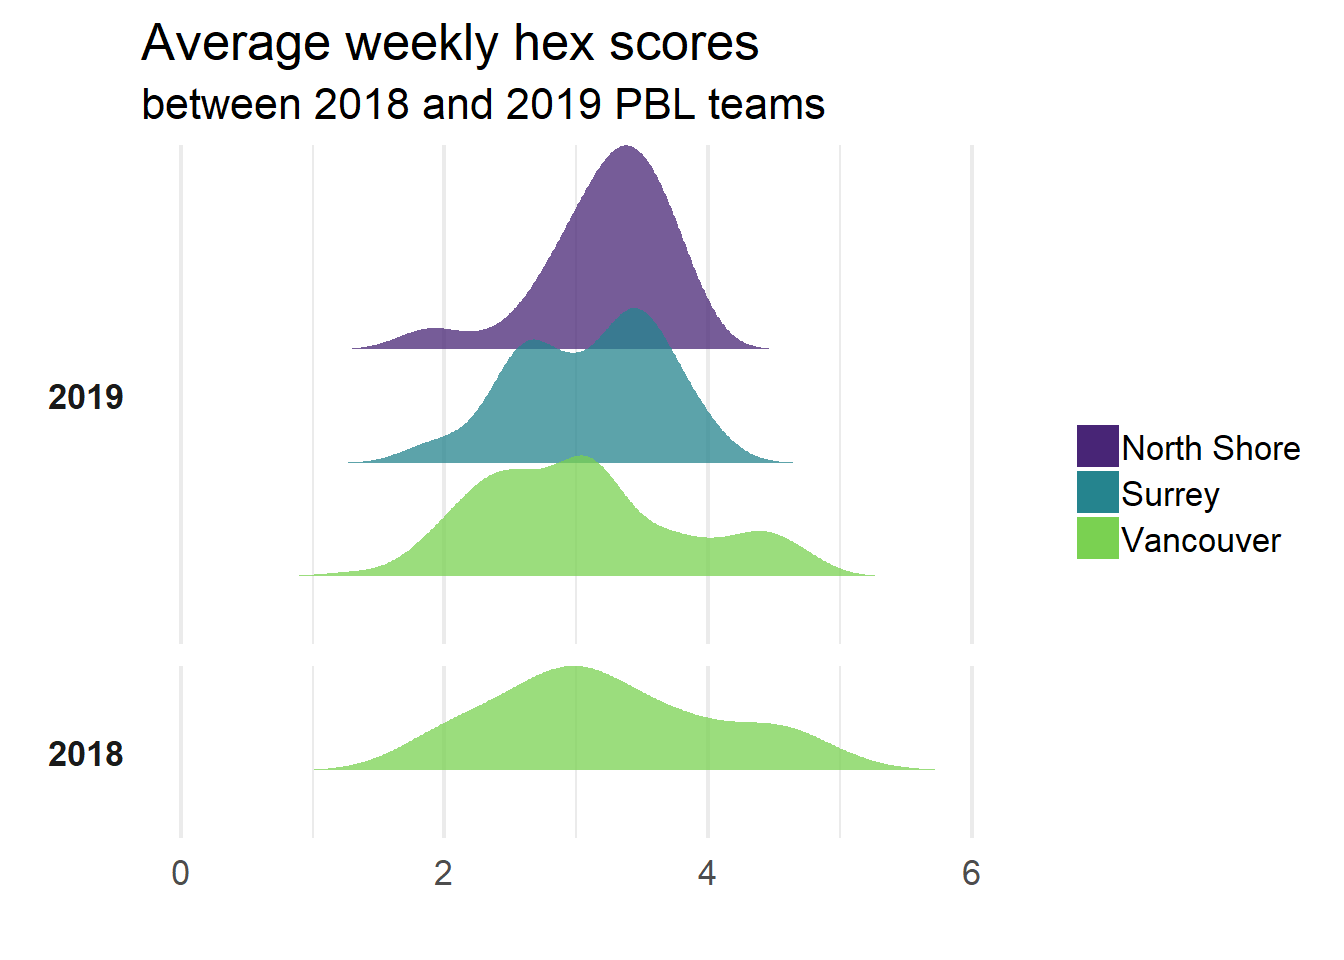
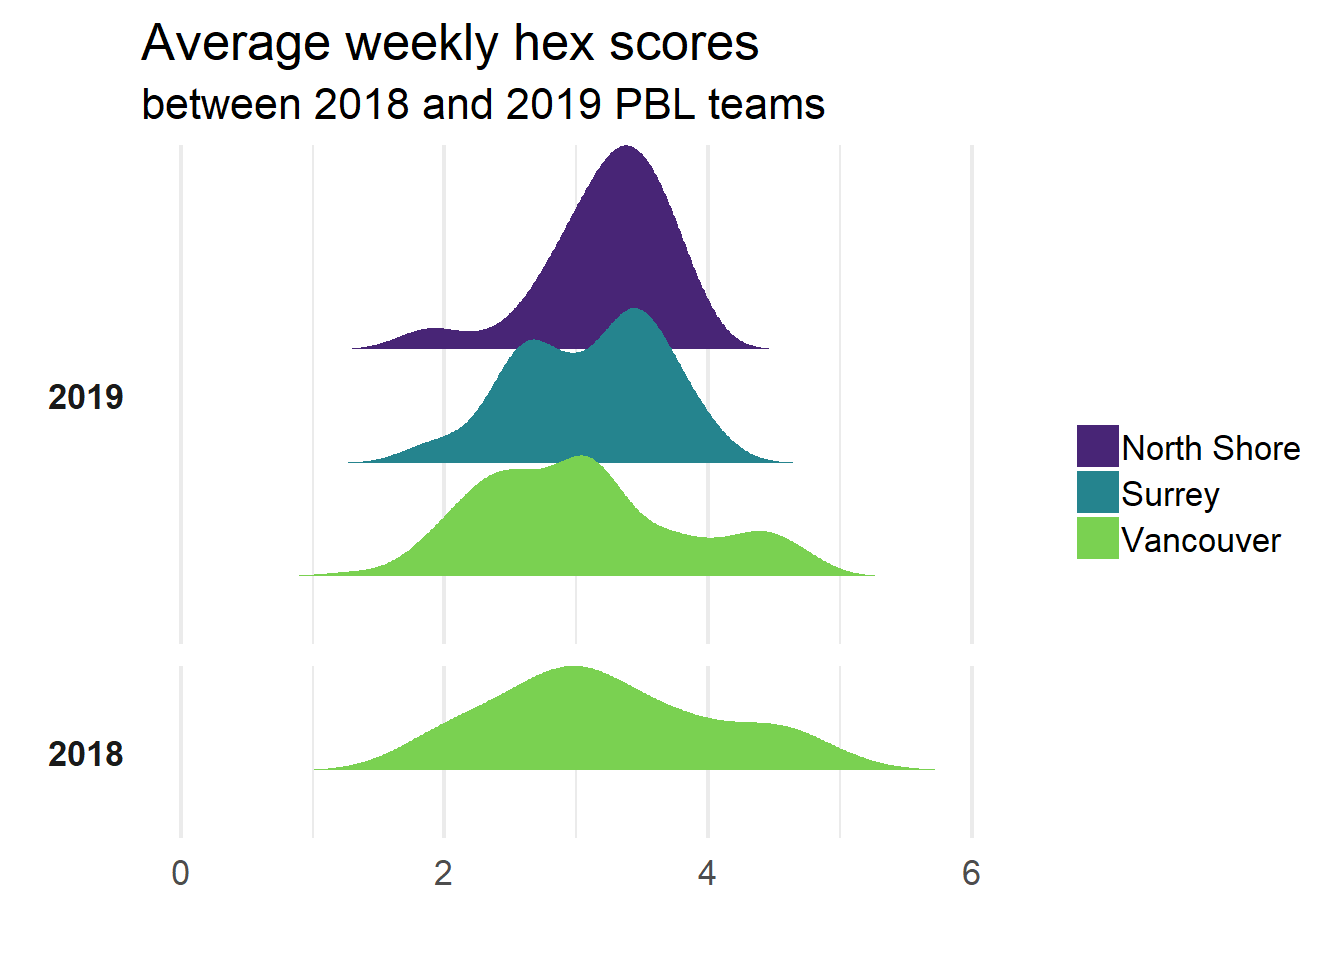
adjust font size

Changed region(s): [[0.25, 0.1562, 0.625, 0.625], [0.25, 0.6875, 0.6875, 0.8125]]

diff --git a/content/post/2019-11-14-pacific-boulder-league-2019.html b/content/post/2019-11-14-pacific-boulder-league-2019.html
@@ -228,15 +228,15 @@ Figure 1: Note: I interpret that when a team did not hand in their score, they s
 <li><em>Jugs Not Drugs</em> started in 34th position (4th last), crawled to 26th position before finals, and ended up in 19th after finals.</li>
 </ul>
 </div>
-<div id="section" class="section level2">
-<h2>21-30</h2>
+<div id="teams-that-placed-21-30" class="section level2">
+<h2>Teams that placed 21-30</h2>
 <p><img src="/post/2019-11-14-pacific-boulder-league-2019_files/figure-html/unnamed-chunk-14-1.png" width="864" /></p>
 <ul>
 <li><strong>Teams that ended up placing in the middle (ranks 21-30), often showed dramatic changes in both directions to their ranking after the final.</strong></li>
 </ul>
 </div>
-<div id="section-1" class="section level2">
-<h2>31-37</h2>
+<div id="teams-that-placed-31-37" class="section level2">
+<h2>Teams that placed 31-37</h2>
 <p><img src="/post/2019-11-14-pacific-boulder-league-2019_files/figure-html/unnamed-chunk-15-1.png" width="864" /></p>
 <ul>
 <li>Many other teams (<em>Soft Rock, Aaron Lacovitti, Our Beta is no-guchi, One Hex Flex</em>) seemed to be doing well before finals, before dropping dramatically post-finals. These were likely teams that did not participate in the finals.</li>
